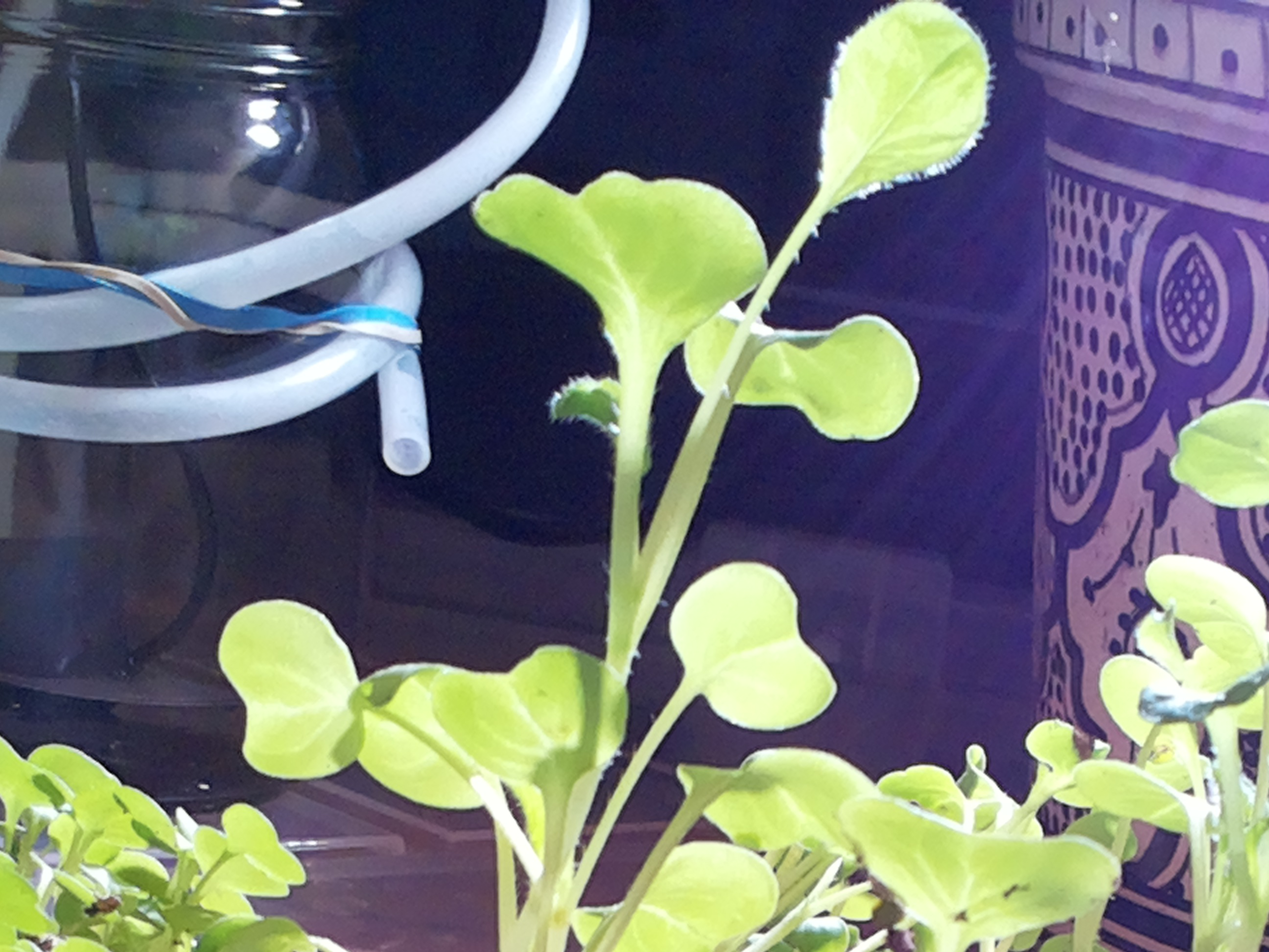
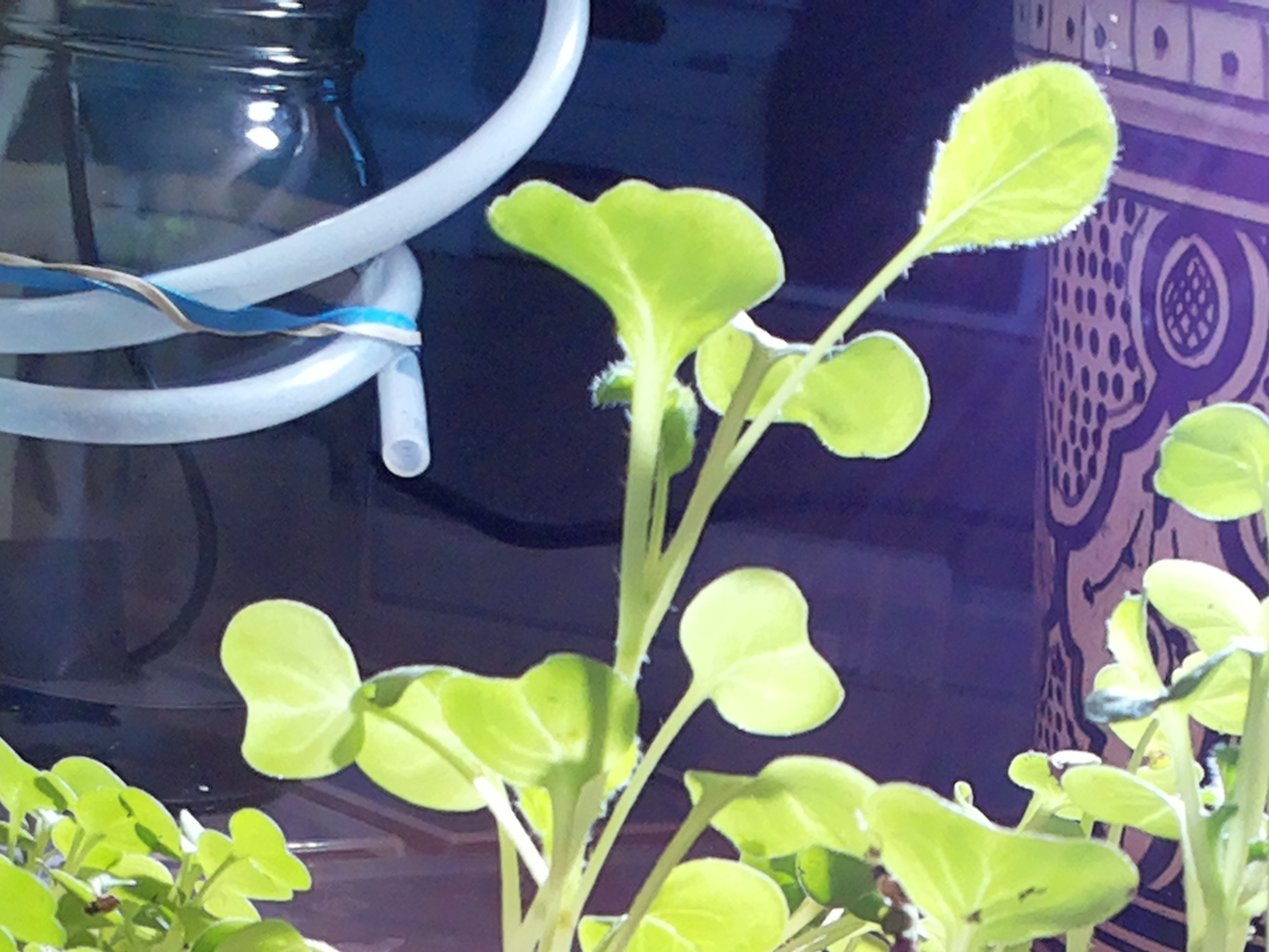
mirror sync 2026-09-08 13:10

diff --git a/JOURNAL.md b/JOURNAL.md
@@ -339,3 +339,11 @@
 - Lamp: on — correct for photoperiod.
 - Watering: 4s pulse per standing order 2 (4s of 60s daily cap used; water.py OK, pump plug verified OFF after).
 - No changes to standing orders. Next: 13:07 observe-only; 19:22 pulse unless surfaces look dark. Still pending: verify lamp-sync.sh fires in logs/cron.log after the next reboot.
+
+### 2026-09-08 13:07 — midday check-in (cron, observe only)
+- Photo: seedlings vigorous in all 12 cells (day 15) — tall, leggy, cotyledons broad, turgid, and green; true leaves growing with fine hairs clearly visible; some stems showing pink coloration (brassica-like, normal). No wilting, mold, pests, or tipping. Tube outlet in place beside the jar over the lid.
+- Jar: zoomed photo shows the glass dark throughout the visible body — water still high, refill holding, pump body well covered.
+- Soil: visible cell surfaces dark/damp where not hidden by foliage; drier crumbly spots in a couple of front cells but no dry-down alarm since the morning pulse. Coir walls pale as usual.
+- Lamp: on — correct for photoperiod.
+- Watering: none (observe-only per standing order 2); 4s of 60s daily cap used. Evening 19:22 pulse planned unless surfaces look dark.
+- No changes to standing orders. Still pending: verify lamp-sync.sh fires in logs/cron.log after the next reboot.
